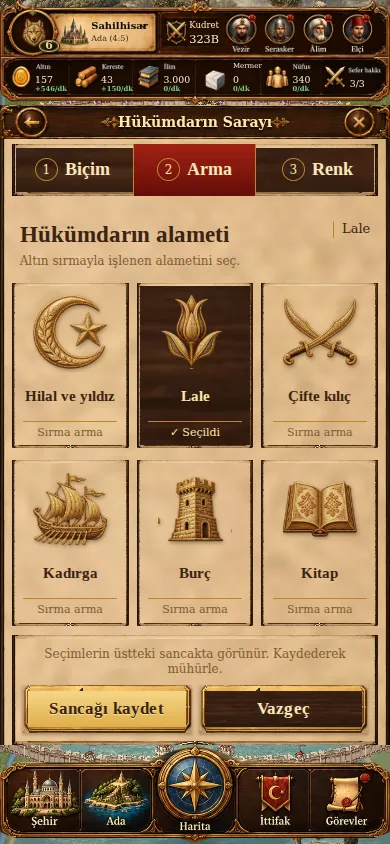
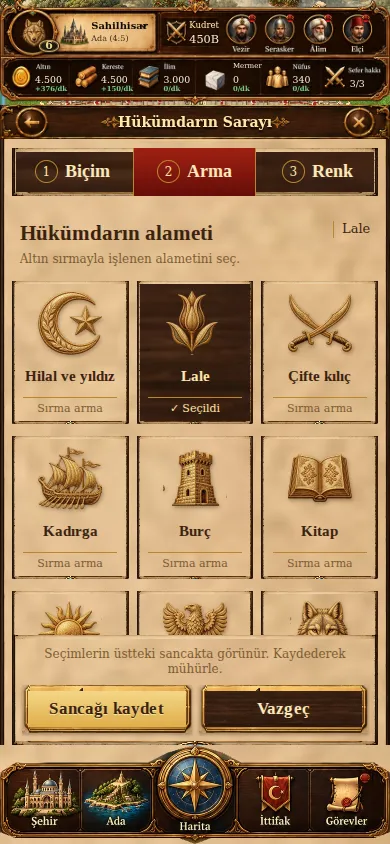
fix(profile): seal nav edge, center chooser embroidery and compact chambers (0.62.1)

diff --git a/payitaht/app/styles/43-profile-chambers.css b/payitaht/app/styles/43-profile-chambers.css
@@ -10,18 +10,18 @@
   position: relative; padding: 14px 0 4px; margin: 0; background: none;
 }
 .game-shell.has-page .bp.bp-profile :is(.royal-section-heading,.sancaktar-heading) {
-  display: flex; align-items: center; gap: 9px; min-height: 72px;
+  display: flex; align-items: center; gap: 8px; min-height: 60px;
   margin: 0 0 12px; padding: 10px 12px; border: 0 solid transparent;
   border-image: var(--royal-page-frame) 20 / 4px / 0 stretch;
   background: var(--royal-wood) center / cover; box-shadow: none;
 }
 .game-shell.has-page .bp.bp-profile :is(.royal-section-heading,.sancaktar-heading) > .royal-art {
-  flex: 0 0 46px; width: 46px; height: 52px; object-fit: contain; mix-blend-mode: normal;
+  flex: 0 0 38px; width: 38px; height: 44px; object-fit: contain; mix-blend-mode: normal;
 }
 .game-shell.has-page .bp.bp-profile :is(.royal-section-heading,.sancaktar-heading) > div { flex: 1; min-width: 0; }
 .game-shell.has-page .bp.bp-profile .royal-subpage .royal-section h3,
 .game-shell.has-page .bp.bp-profile .sancaktar-heading h3 {
-  position: static; margin: 0; font: 700 21px/1.1 'Payitaht Profile Roman','Times New Roman',serif;
+  position: static; margin: 0; font: 700 19px/1.1 'Payitaht Profile Roman','Times New Roman',serif;
   color: var(--c-gold-pale); overflow-wrap: anywhere;
 }
 .game-shell.has-page .bp.bp-profile :is(.royal-section-heading,.sancaktar-heading) p {
@@ -35,16 +35,16 @@
 .game-shell.has-page .bp.bp-profile .royal-settlements { display: grid; gap: 0; }
 .game-shell.has-page .bp.bp-profile .royal-settlement {
   display: grid; grid-template-columns: 32% minmax(0,1fr); gap: 12px;
-  min-height: 152px; padding: 13px 8px; margin: 0; border: 0; border-radius: 0;
+  min-height: 124px; padding: 10px 8px; margin: 0; border: 0; border-radius: 0;
   border-bottom: 1px solid var(--c-gold-deep); background: none; box-shadow: none;
   color: var(--c-ink);
 }
-.game-shell.has-page .bp.bp-profile .royal-settlement-art > .royal-art { height: 92px; width: 100%; }
+.game-shell.has-page .bp.bp-profile .royal-settlement-art > .royal-art { height: 74px; width: 100%; }
 .game-shell.has-page .bp.bp-profile .royal-settlement-art > small {
   background: var(--royal-wood) center / cover; color: var(--c-gold-pale);
   border: 1px solid var(--c-gold); font: 700 11px/1.2 'Payitaht Profile Roman',serif;
 }
-.game-shell.has-page .bp.bp-profile .royal-settlement strong { font-size: 26px; line-height: 1.05; }
+.game-shell.has-page .bp.bp-profile .royal-settlement strong { font-size: 22px; line-height: 1.05; }
 .game-shell.has-page .bp.bp-profile .royal-settlement > span { gap: 5px; }
 .game-shell.has-page .bp.bp-profile .royal-settlement b { font: 700 15px/1.2 'Payitaht Profile Roman',serif; }
 .game-shell.has-page .bp.bp-profile .royal-settlement:active { background: #b17f2422; }
@@ -53,29 +53,29 @@
 }
 .game-shell.has-page .bp.bp-profile .royal-score-register > div {
   grid-template-columns: 28% minmax(0,1fr); gap: 6px; padding: 12px 6px;
-  border-bottom: 1px solid var(--c-parch-line); min-height: 96px;
+  border-bottom: 1px solid var(--c-parch-line); min-height: 80px;
 }
-.game-shell.has-page .bp.bp-profile .royal-score-register .royal-art { height: 58px; }
-.game-shell.has-page .bp.bp-profile .royal-score-register strong { font-size: 21px; line-height: 1.1; }
+.game-shell.has-page .bp.bp-profile .royal-score-register .royal-art { height: 48px; }
+.game-shell.has-page .bp.bp-profile .royal-score-register strong { font-size: 19px; line-height: 1.1; }
 .game-shell.has-page .bp.bp-profile .royal-score-register small { font-size: 12px; }
 .game-shell.has-page .bp.bp-profile .royal-record-groups { gap: 0; }
 .game-shell.has-page .bp.bp-profile .royal-record-groups > section {
   padding: 10px 8px 14px; border: 0; border-bottom: 1px solid var(--c-gold-deep);
   background: none; border-radius: 0;
 }
-.game-shell.has-page .bp.bp-profile .royal-record-groups h4 { font-size: 21px; }
-.game-shell.has-page .bp.bp-profile .royal-record-groups dd { font: 700 24px/1.1 'Payitaht Profile Roman',serif; }
+.game-shell.has-page .bp.bp-profile .royal-record-groups h4 { font-size: 19px; }
+.game-shell.has-page .bp.bp-profile .royal-record-groups dd { font: 700 21px/1.1 'Payitaht Profile Roman',serif; }
 .game-shell.has-page .bp.bp-profile .royal-record-groups dl { gap: 13px 12px; }
 /* Nişan treasury: brass, silver and gold shelves, with real earned states. */
 .game-shell.has-page .bp.bp-profile .royal-tier-summary { margin: 0 0 14px; }
-.game-shell.has-page .bp.bp-profile .royal-tier-summary > div { min-height: 78px; }
-.game-shell.has-page .bp.bp-profile .royal-tier-summary strong { font-size: 27px; }
+.game-shell.has-page .bp.bp-profile .royal-tier-summary > div { min-height: 66px; }
+.game-shell.has-page .bp.bp-profile .royal-tier-summary strong { font-size: 21px; }
 .game-shell.has-page .bp.bp-profile .royal-next-medal {
   grid-template-columns: 30% minmax(0,1fr); gap: 12px; padding: 12px 8px;
   background: none; border: 0; border-block: 1px solid var(--c-gold-deep);
 }
-.game-shell.has-page .bp.bp-profile .royal-next-medal h4 { font-size: 23px; }
-.game-shell.has-page .bp.bp-profile .royal-next-medal .royal-medal-art .royal-art { height: 116px; }
+.game-shell.has-page .bp.bp-profile .royal-next-medal h4 { font-size: 21px; }
+.game-shell.has-page .bp.bp-profile .royal-next-medal .royal-medal-art .royal-art { height: 94px; }
 .game-shell.has-page .bp.bp-profile .royal-filter { gap: 0; margin: 16px 0; }
 .game-shell.has-page .bp.bp-profile .royal-filter button {
   min-height: 48px; border: 0 solid transparent; border-image: var(--royal-page-frame) 20 / 4px / 0 stretch;
@@ -84,13 +84,13 @@
 .game-shell.has-page .bp.bp-profile .royal-filter button[aria-pressed='true'] {
   background: linear-gradient(var(--c-royal-active),var(--c-royal-active-deep)); color: var(--c-gold-pale);
 }
-.game-shell.has-page .bp.bp-profile .royal-medal-gallery { gap: 16px 12px; }
+.game-shell.has-page .bp.bp-profile .royal-medal-gallery { gap: 12px 10px; }
 .game-shell.has-page .bp.bp-profile .royal-medal-card,
 .game-shell.has-page .bp.bp-profile .royal-medal-card.is-earned {
   padding: 6px 0 14px; border: 0; border-bottom: 1px solid var(--c-parch-line);
   background: none; border-radius: 0; box-shadow: none;
 }
-.game-shell.has-page .bp.bp-profile .royal-medal-card .royal-medal-art .royal-art { height: 116px; }
+.game-shell.has-page .bp.bp-profile .royal-medal-card .royal-medal-art .royal-art { height: 94px; }
 .game-shell.has-page .bp.bp-profile .royal-medal-card h4 {
   display: grid; place-items: center; width: 100%; min-height: 44px; margin: 7px 0;
   padding: 8px 7px; font: 700 16px/1.1 'Payitaht Profile Roman',serif;
@@ -124,12 +124,12 @@
   margin: 0; gap: 0; border: 0 solid transparent; border-image: var(--royal-page-frame) 20 / 4px / 0 stretch;
   background: var(--royal-wood) center / cover;
 }
-.game-shell.has-page .bp.bp-profile .sancaktar-steps button { min-height: 52px; font: 700 18px/1.1 'Payitaht Profile Roman',serif; }
+.game-shell.has-page .bp.bp-profile .sancaktar-steps button { position: relative; min-height: 48px; font: 700 18px/1.1 'Payitaht Profile Roman',serif; }
 .game-shell.has-page .bp.bp-profile .sancaktar-steps button[aria-pressed='true'] {
   background: linear-gradient(var(--c-royal-active),var(--c-royal-active-deep));
 }
 .game-shell.has-page .bp.bp-profile .sancaktar-selection { padding: 15px 0 4px; margin: 0; background: none; border: 0; }
-.game-shell.has-page .bp.bp-profile .sancaktar-selection h4 { font-size: 23px; }
+.game-shell.has-page .bp.bp-profile .sancaktar-selection h4 { font-size: 21px; }
 .game-shell.has-page .bp.bp-profile .sancaktar-selection > header { padding: 0 8px; align-items: start; }
 .game-shell.has-page .bp.bp-profile .sancaktar-cloths { gap: 14px 12px; }
 .game-shell.has-page .bp.bp-profile :is(.sancaktar-emblems,.sancaktar-colors) { gap: 12px 8px; }
@@ -141,11 +141,11 @@
   background: var(--royal-wood) center / cover; color: var(--c-gold-pale);
 }
 .game-shell.has-page .bp.bp-profile .sancaktar-selection button[role='radio'] > span {
-  min-height: 40px; font: 700 15px/1.1 'Payitaht Profile Roman',serif;
+  min-height: 32px; font: 700 15px/1.1 'Payitaht Profile Roman',serif;
 }
-.game-shell.has-page .bp.bp-profile .sancaktar-cloth-art { height: 152px; }
-.game-shell.has-page .bp.bp-profile .sancaktar-color-art { height: 96px; }
-.game-shell.has-page .bp.bp-profile .sancaktar-emblems .royal-embroidery { height: 78px; }
+.game-shell.has-page .bp.bp-profile .sancaktar-cloth-art { height: 124px; }
+.game-shell.has-page .bp.bp-profile .sancaktar-color-art { height: 84px; }
+.game-shell.has-page .bp.bp-profile .sancaktar-emblems .royal-embroidery { height: 64px; }
 .game-shell.has-page .bp.bp-profile .sancaktar-signature {
   margin: 14px 0 0; padding: 12px 10px; background: var(--royal-paper) center / 420px auto;
   border: 0 solid transparent; border-image: var(--royal-page-frame) 20 / 4px / 0 stretch;
@@ -154,4 +154,30 @@
 @media (min-width: 650px) {
   .game-shell.has-page .bp.bp-profile .royal-medal-gallery { grid-template-columns: repeat(3,minmax(0,1fr)); }
   .game-shell.has-page .bp.bp-profile .royal-record-groups { grid-template-columns: repeat(2,minmax(0,1fr)); gap: 14px; }
+}
+
+/* Seal the transparent command-rail edge with the page surface, without
+   changing the accepted HUD artwork, geometry or controls. */
+.game-shell.has-page:has(.bp-profile)::after {
+  content: ''; position: fixed; inset: auto 0 0; height: var(--ika-nav);
+  z-index: 59; pointer-events: none; background: var(--royal-paper) center / 420px auto;
+}
+/* Keep embroidery coordinates in the actual 300×500 painted sprite. A wide
+   tray previously letterboxed the cloth but positioned its crest in the tray. */
+.game-shell.has-page .bp.bp-profile :is(.sancaktar-cloth-art,.sancaktar-color-art) > .royal-standard {
+  inset: 0 auto auto 50%; width: auto; height: 100%; aspect-ratio: 3 / 5;
+  transform: translateX(-50%);
+}
+.game-shell.has-page .bp.bp-profile :is(.sancaktar-cloth-art,.sancaktar-color-art) .royal-embroidery {
+  left: 42.5%; top: 27.5%; width: 35%; height: 25%; object-position: center;
+}
+.game-shell.has-page .bp.bp-profile :is(.sancaktar-cloth-art,.sancaktar-color-art) .royal-standard[data-banner='dar'] > .royal-embroidery {
+  left: 46%; top: 29%; width: 24%; height: 23%;
+}
+.game-shell.has-page .bp.bp-profile .sancaktar-emblems .royal-embroidery {
+  width: 64px; height: 64px; padding: 0; margin: 0 auto; object-position: center;
+}
+
+.game-shell.has-page .bp.bp-profile .sancaktar-steps button > :is(small,span) {
+  position: relative; z-index: 1;
 }

diff --git a/payitaht/lib/game/changelog.ts b/payitaht/lib/game/changelog.ts
@@ -5,6 +5,7 @@
 export type Release = { version: string; date: string; title: string; notes: string[] }
 
 export const CHANGELOG: Release[] = [
+  { version: '0.62.1', date: '8 Ekim 2026', title: 'Sancak hizası ve daha sıkı defterler', notes: ['Profil ile alt bar arasından şehir görüntüsünün görünmesi kapatıldı; barın resmi ve ölçüleri korunur.', 'Seçicideki armalar kumaşın gerçek boyutuna hizalandı. Şehirler, Nişanlar ve Sancak içeriğinin resim ve boşlukları küçültüldü; mekanikler değişmedi.'] },
   { version: '0.62.0', date: '8 Ekim 2026', title: 'Sarayın üç defteri', notes: ['Şehirler, Nişanlar ve Sancak sekmeleri ortak ceviz, altın işleme ve parşömen tasarımına geçirildi.', 'Şehir geçişleri, nişan koşulları ve filtreleri, sancak seçimleri ve kaydet/vazgeç işlemleri korunur. Üst ve alt bar değişmedi.'] },
   { version: '0.61.4', date: '8 Ekim 2026', title: 'Referans yazı genişlikleri', notes: ['Saltanat sicili, şeref rafı başlıkları ve nişan levhası yazıları referansın harf genişliklerine göre son ölçülerine getirildi.'] },
   { version: '0.61.3', date: '8 Ekim 2026', title: 'Profilde sancak ve yazı ölçüleri', notes: ['Sancak arması ve bölüm başlıkları onaylı profil referansına göre yeniden hizalandı.', 'Sicil, şeref rafı ve nişan etiketlerinde aynı gömülü yazı tipi kullanılır; cihazın serif seçimi yerleşimi değiştirmez.'] },

diff --git a/payitaht/components/game/approved-court-art.tsx b/payitaht/components/game/approved-court-art.tsx
@@ -13,5 +13,5 @@ export function RoyalCrest({ crest, className }: { crest: CrestId; className?: s
 }
 /** Each silhouette has its own painted cloth and border; tint touches only silver silk. */
 export function RoyalStandard({ crest, color, banner }: { crest: CrestId; color: string; banner: BannerId }) {
-  return <div className="royal-standard" style={{ '--standard-color': color, '--royal-cloth-mask': `url("${asset(`/images/game/ui/sancaktar/mask-${banner}.webp`)}")` } as React.CSSProperties} aria-label="Hükümdarın sancağı"><img className="royal-art" src={asset(`/images/game/ui/sancaktar/cloth-${banner}.webp`)} alt="" width={300} height={500} /><div className="royal-standard-tint" /><RoyalCrest crest={crest} /></div>
+  return <div className="royal-standard" data-banner={banner} style={{ '--standard-color': color, '--royal-cloth-mask': `url("${asset(`/images/game/ui/sancaktar/mask-${banner}.webp`)}")` } as React.CSSProperties} aria-label="Hükümdarın sancağı"><img className="royal-art" src={asset(`/images/game/ui/sancaktar/cloth-${banner}.webp`)} alt="" width={300} height={500} /><div className="royal-standard-tint" /><RoyalCrest crest={crest} /></div>
 }

diff --git a/payitaht/lib/pwa-cache.test.ts b/payitaht/lib/pwa-cache.test.ts
@@ -11,7 +11,7 @@ test('service worker Pages base path altında kaydolur', () => {
 
 test('service worker cache sürümü ve asset yenileme stratejisi güncel', () => {
   const sw = readFileSync('public/sw.js', 'utf8')
-  assert.match(sw, /payitaht-shell-v69/)
+  assert.match(sw, /payitaht-shell-v70/)
   assert.match(sw, /self\.registration\.scope/)
   assert.match(sw, /url\.pathname\.startsWith\(gameImages\)/)
   // Yalnızca JavaScript sözdizimini derle; self çağrıları çalıştırılmaz.

diff --git a/payitaht/public/sw.js b/payitaht/public/sw.js
@@ -1,4 +1,4 @@
-const CACHE = 'payitaht-shell-v69'
+const CACHE = 'payitaht-shell-v70'
 const BASE = new URL(self.registration.scope).pathname.replace(/\/$/, '')
 const p = path => `${BASE}${path.startsWith('/') ? path : `/${path}`}`
 const ASSETS = [

diff --git a/payitaht/docs/PROFILE-DESIGN-MEMORY.md b/payitaht/docs/PROFILE-DESIGN-MEMORY.md
@@ -55,3 +55,11 @@ Alt sekmelerin kaplaması `app/styles/43-profile-chambers.css`. Aynı boyanmış
 Alt panel başlıkları ve nişan metreleri normal akıştadır. Saltanat atlasının mutlak başlık/ilerleme koordinatları alt panellere uygulanmaz. Canlı metinler resim içine gömülmez; sıralama, filtre, seçim, validasyon ve kayıt fonksiyonlarını değiştirme.
 
 Gerçek ekran kanıtları: `mockups/profile-chambers-cities.webp`, `profile-chambers-medals.webp`, `profile-chambers-banner.webp`. 360/390/430 px genişlik, gerçek sekme/filtre, kumaş/arma/renk seçimi ve kaydet/vazgeç kontrolleri yapılmıştır.
+
+## Mobil sıkılaştırma ve arma kaydı — 0.62.1 / SW70
+
+Profil açıkken shell'in yalnız alt bar arkasındaki bölümü parşömenle örtülür (`::after`, z=59, pointer-events:none). Şeffaf HUD kenarlarından şehir görünmez; HUD z=70, asset ve ölçüler aynı kalır. Sayfa kapandığında örtü kaldırılır.
+
+Kumaş seçici: `.royal-standard` her tezgâhta 3/5 oranında, yatay ortada, %100 yüksekliğe sahip gerçek sprite kutusudur. Kumaş ve renk maskesi aynı kutuyu kullanır. Arma normal kumaşta x=%60, y=%40 merkezlidir; 35% genişlik, 25% yükseklik. Dar flamaya x=%58, y=%40,5; 24% genişlik, 23% yükseklik. `data-banner` sadece görsel silüet ayarıdır; kayıt ve seçim kuralını değiştirmez. Bağımsız arma örnekleri 64×64 ortalanır. Bu seçici ölçülerini Saltanat sahnesine/HUD'a taşımak yasaktır.
+
+Alt defterlerde yaklaşık %15–20 daha küçük resimler/boşluklar; şehir satırı 124 px, şehir resimleri 74 px, nişanlar 94 px, kumaş örneği 124 px, renk örneği 84 px. Giriş ve dokunma hedefleri en az 48 px korunur.

diff --git a/payitaht/docs/PROFILE-CHAMBERS-VALIDATION.md b/payitaht/docs/PROFILE-CHAMBERS-VALIDATION.md
@@ -10,3 +10,7 @@ Değişiklik CSS kaplamasıdır. RoyalCities, RoyalMedals, RoyalWardrobe ve oyun
 - Gerçek mobil ekranlar gözle kontrol edildi; seçici ve madalya metinleri levhalarında kalıyor.
 
 Genel eski HUD küçük yazı/dokunma uyarıları bu değişikliğin kapsamı dışındadır; tüm uygulama için kusursuzluk iddiası değildir.
+
+## 0.62.1 / SW70 düzeltmeleri
+
+328 test geçti; TypeScript, ESLint, CSS ve v2 ölçütleri geçti. HUD dosya hashleri ve gerçek geometri aynı. On kumaşın sprite kutusu 3/5 ve arması kumaşın beklenen merkezinde ölçüldü. 360/390/430 px yatay taşma kontrolü, mevcut sekme/filtre/kaydet/vazgeç akışı ve Saltanat atlası normal/%130 kontrolü geçti. Alt HUD arka örtüsü barın yüksekliğini kaplıyor ve tıklamaları engellemiyor. Gerçek mobil alt kenar ve kumaş/arma seçici görüntüleri gözle kontrol edildi.
